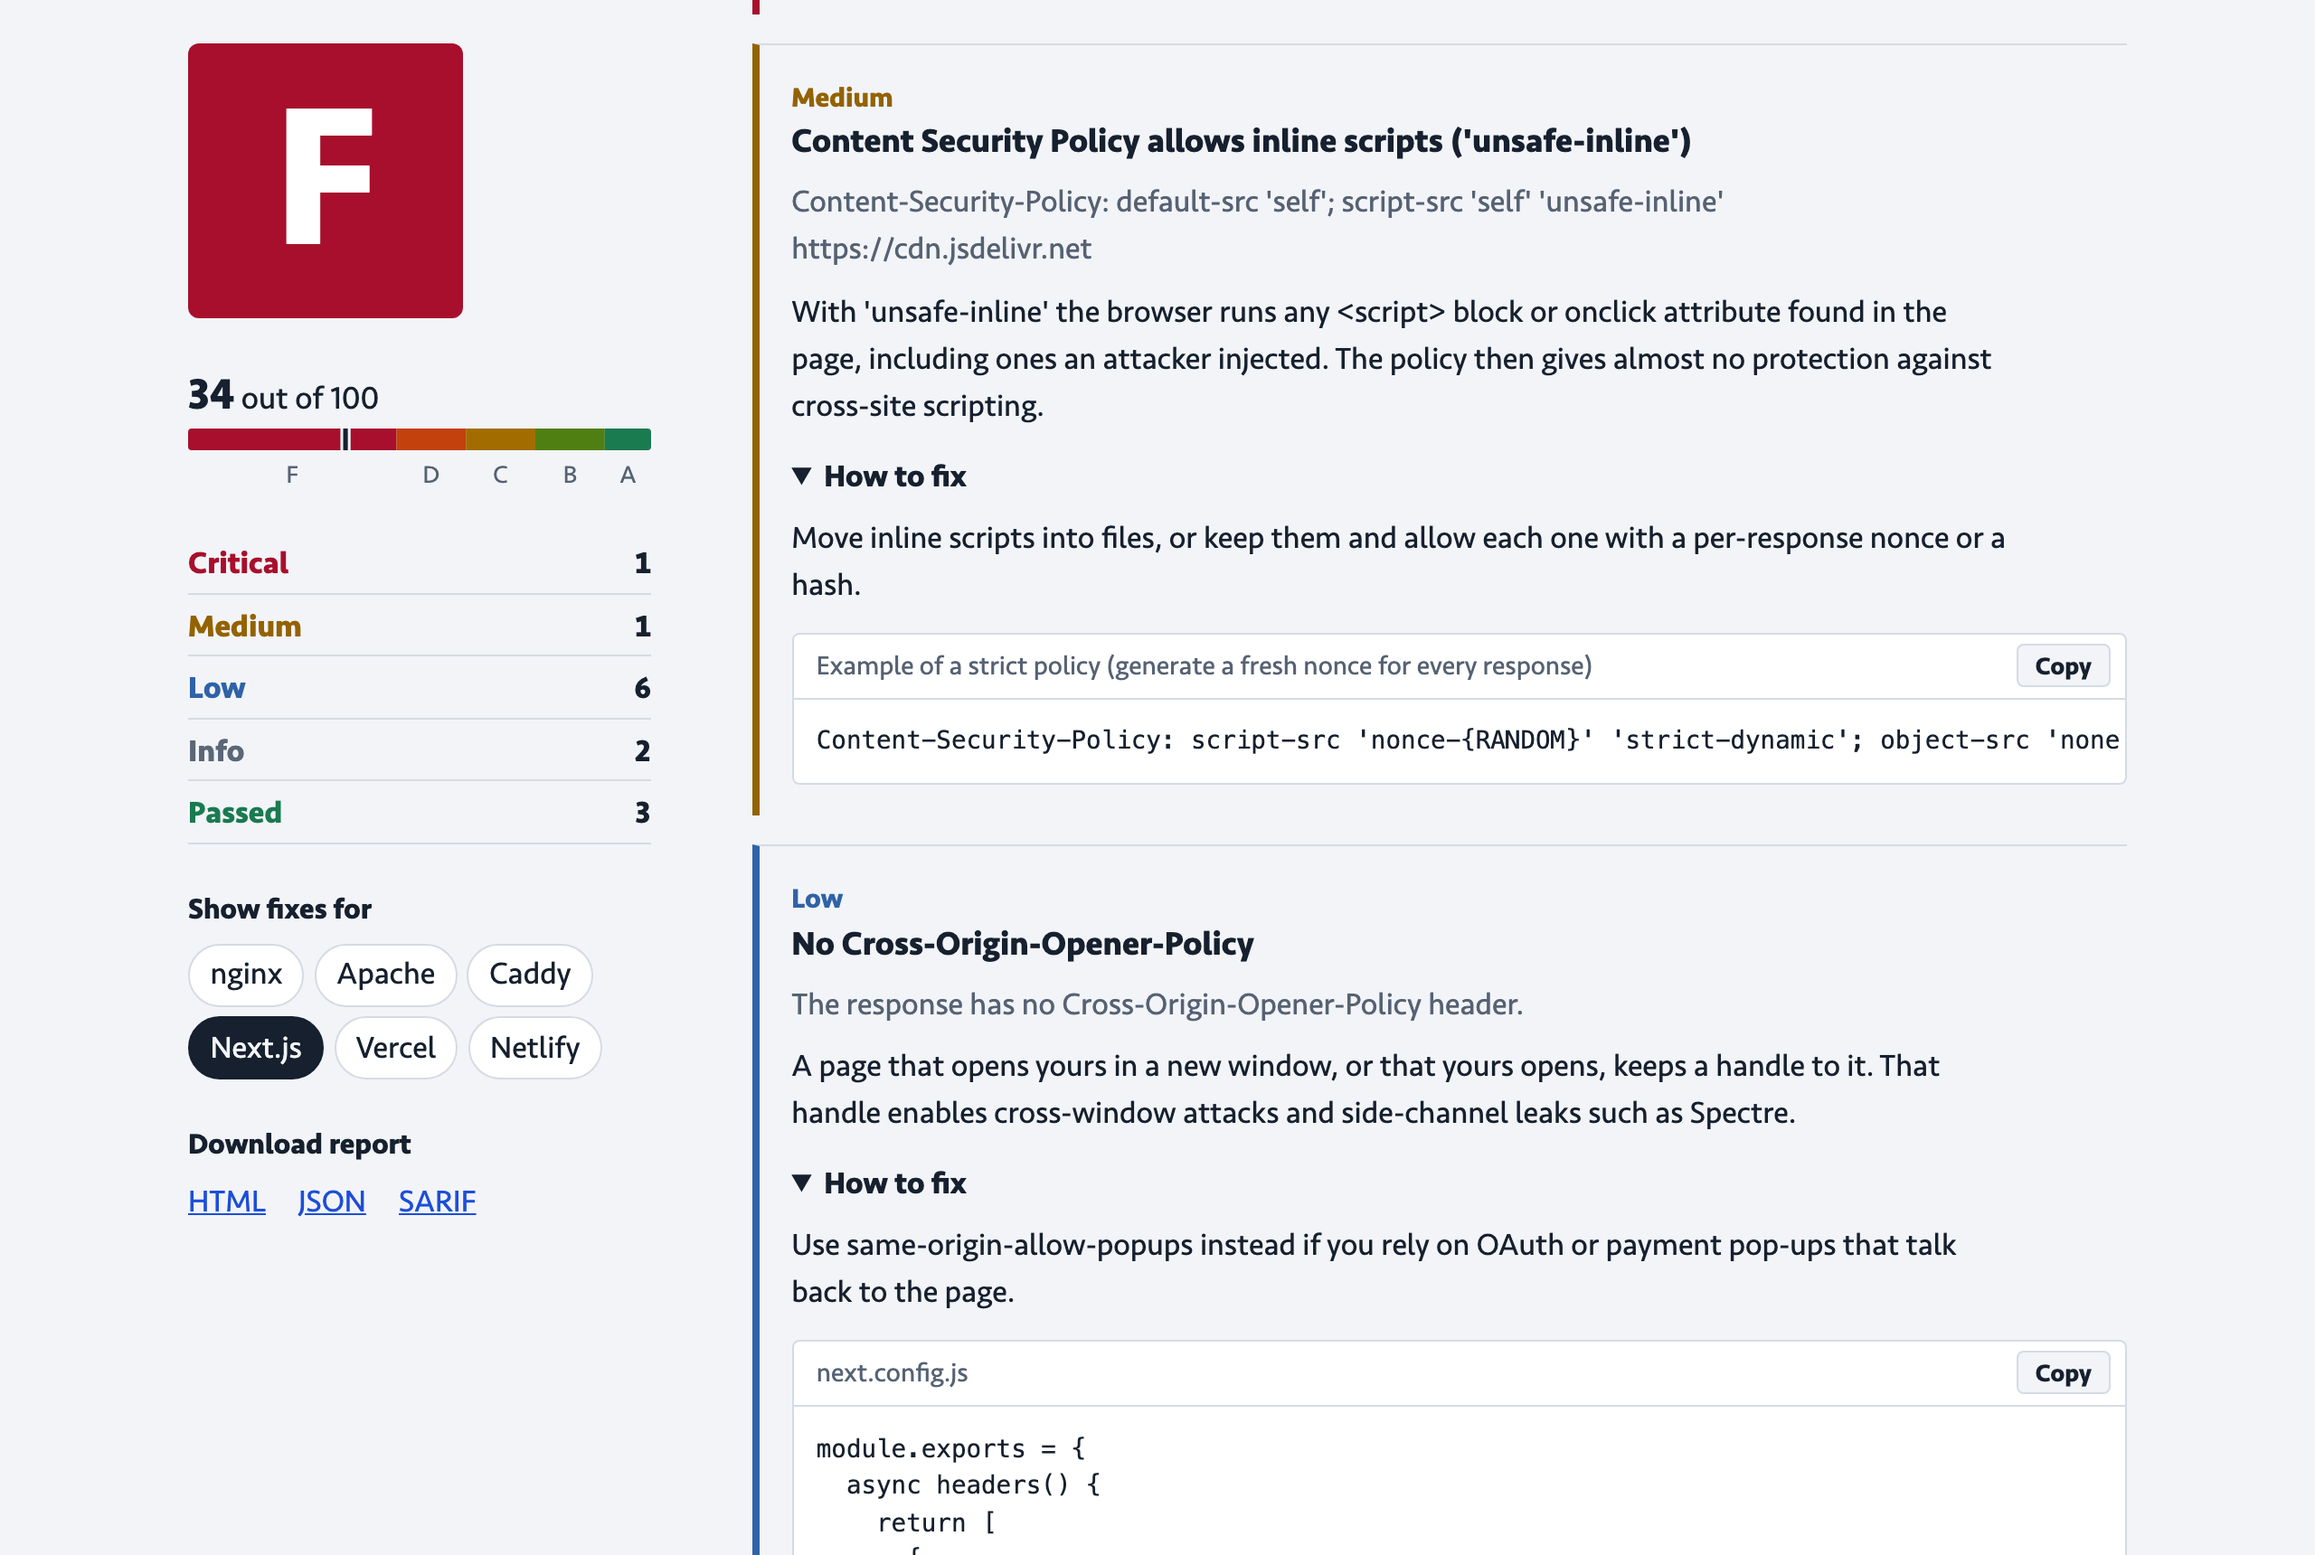
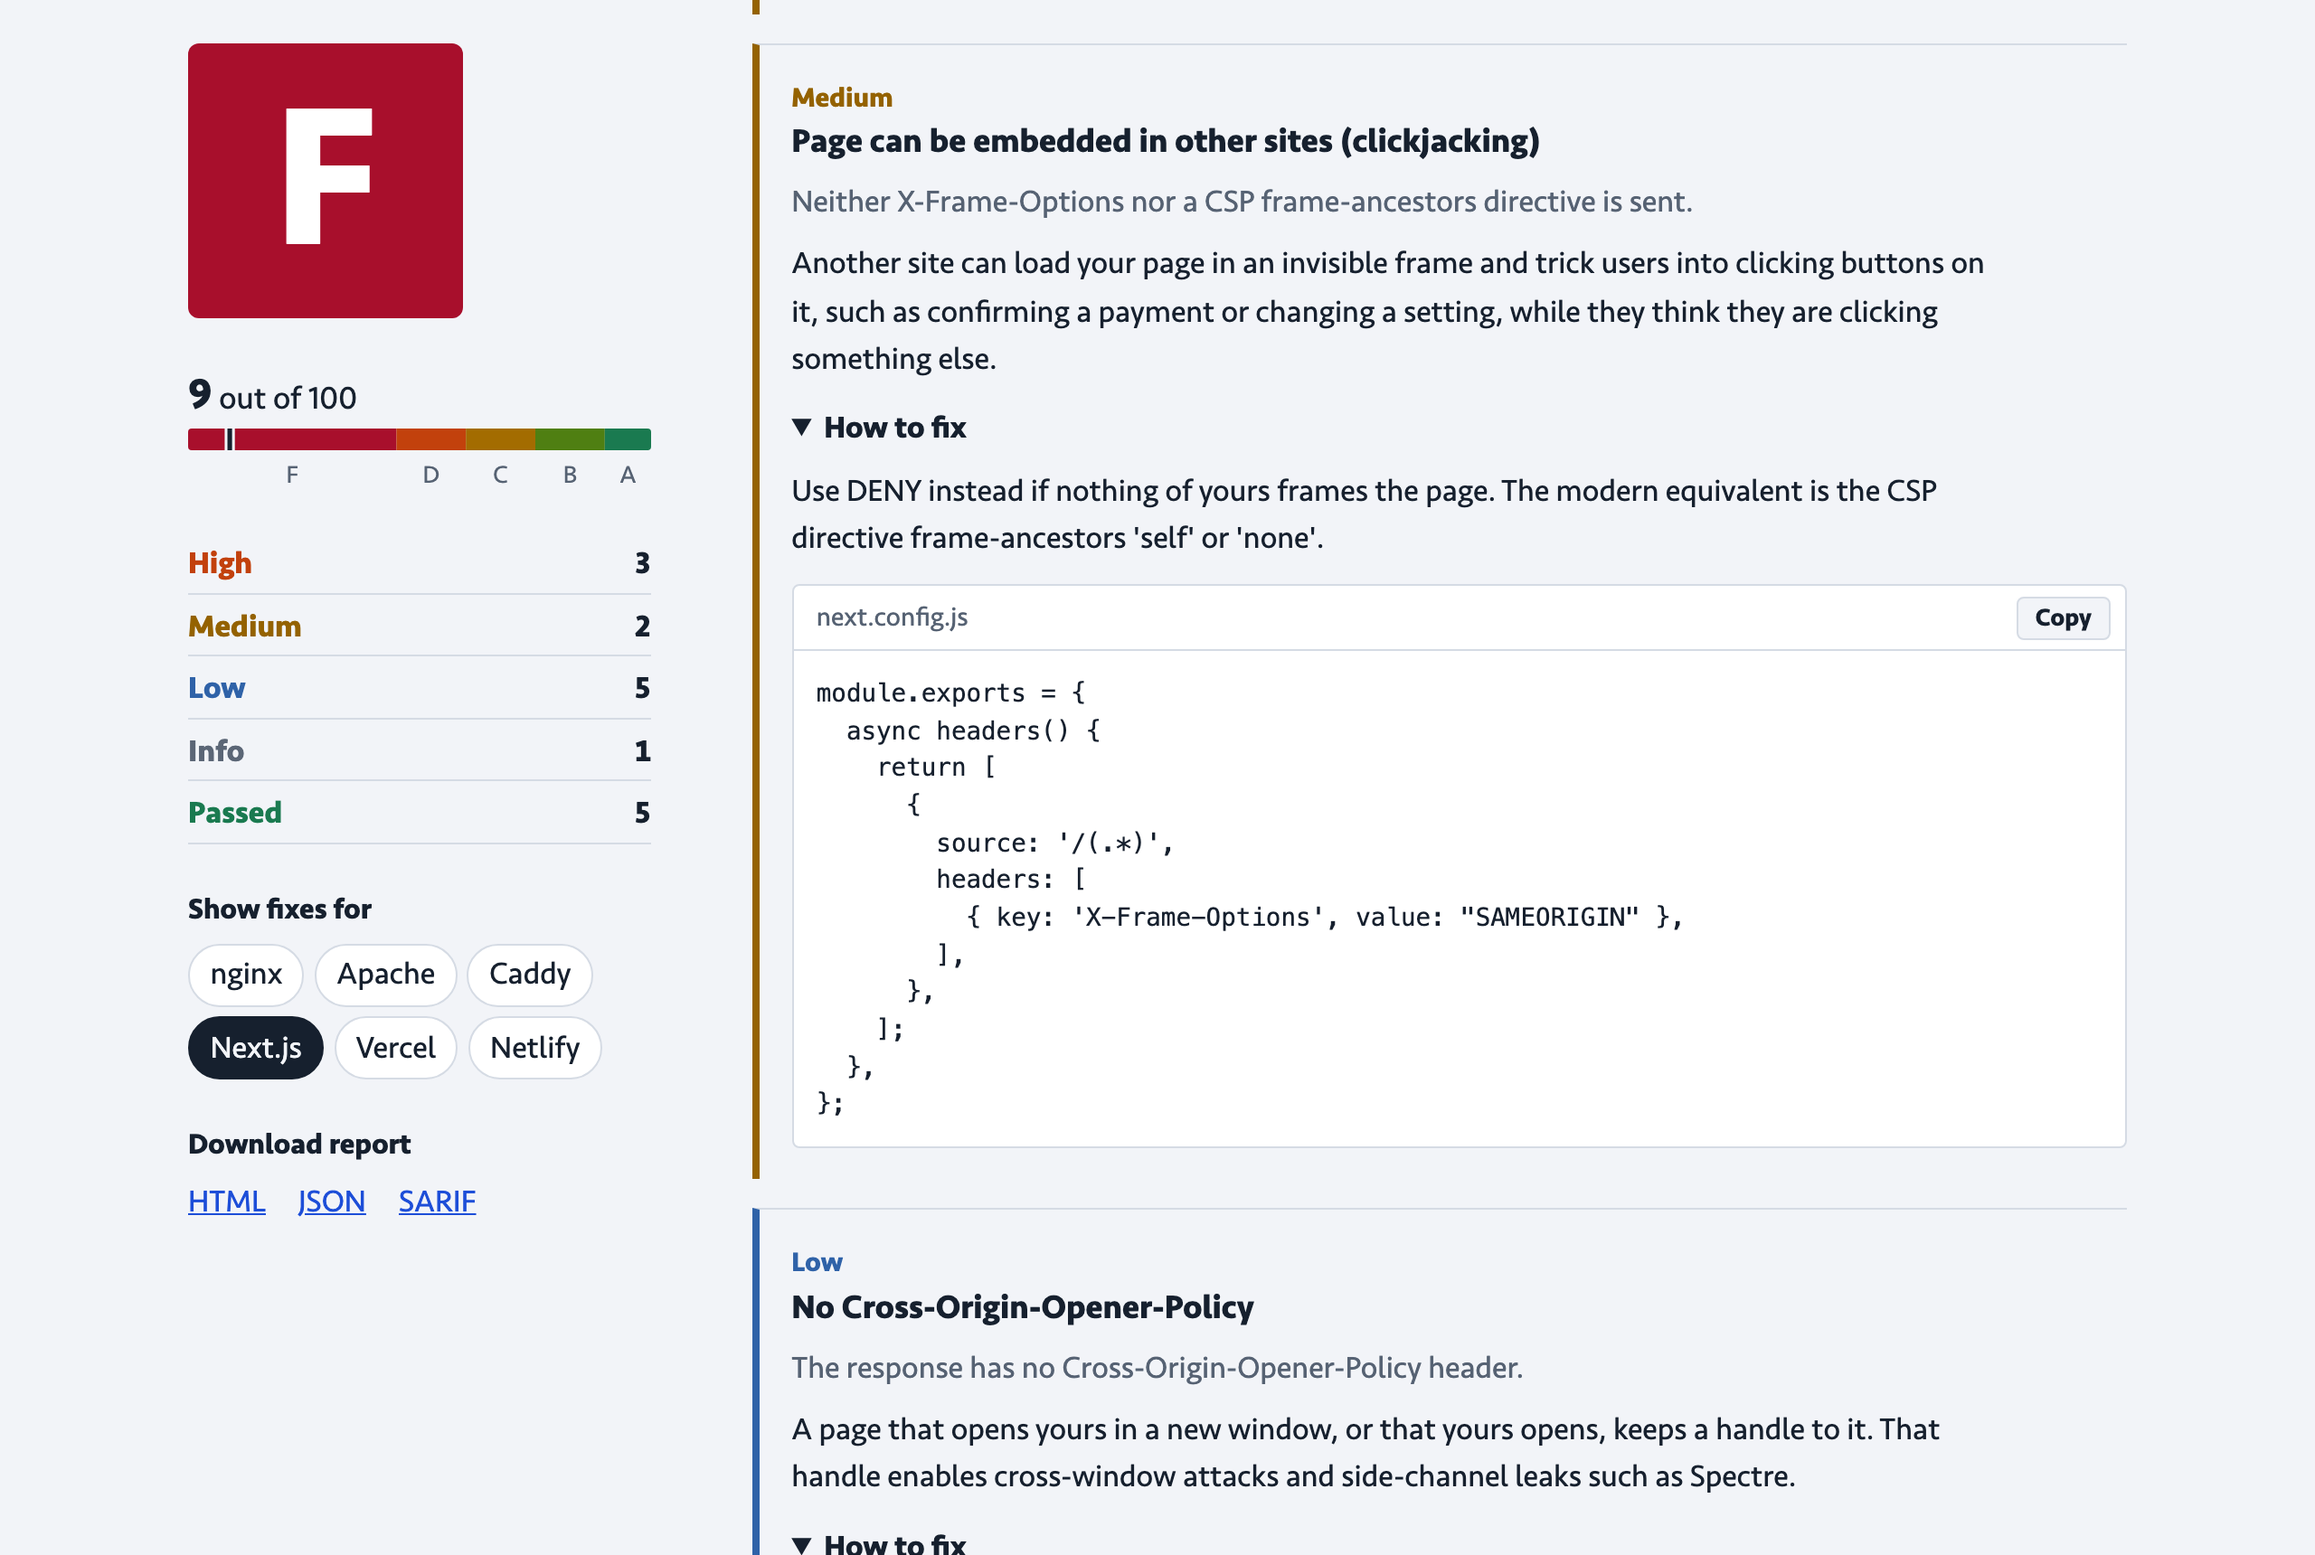
Release 0.1.1: release workflow, README and changelog, new screenshots
Adds a workflow that builds archives for Linux, macOS and Windows when a
version tag is pushed. The README gains the binary install, the SARIF upload
workflow and an accurate account of which fix snippets are tested. The
screenshots are retaken from a real scan of example.com, since a loopback
fixture no longer shows the plain-HTTP finding they showed.

diff --git a/internal/scan/scan.go b/internal/scan/scan.go
@@ -14,7 +14,7 @@ import (
 	"time"
 )
 
-const Version = "0.1.0"
+const Version = "0.1.1"
 
 type Severity string
 

diff --git a/README.md b/README.md
@@ -6,11 +6,21 @@ It exists because most scanners tell you a header is missing and stop there. shi
 
 > **Scan only sites you own or are authorised to test.**
 
-![The shieldcheck web UI showing an F grade, a severity breakdown, a platform switch and the first finding with its nginx fix](docs/screenshots/report.png)
+![The shieldcheck web UI after scanning example.com: an F grade, a severity breakdown, a platform switch and the first finding with its nginx fix](docs/screenshots/report.png)
 
 ## Quickstart
 
-You need Go 1.25 or newer.
+Download the archive for your system from the [latest release](https://github.com/Habibeyilmazz/shieldcheck/releases/latest) (Linux, macOS and Windows, amd64 and arm64), unpack it and run the binary inside:
+
+```sh
+tar -xzf shieldcheck_*_linux_amd64.tar.gz
+cd shieldcheck_*_linux_amd64
+./shieldcheck scan https://your-site.example
+```
+
+`checksums.txt` on the release page has the SHA-256 of every archive. The binaries are not signed: if macOS refuses to open one downloaded with a browser, run `xattr -d com.apple.quarantine shieldcheck` once.
+
+With Go 1.25 or newer you can install it instead:
 
 ```sh
 go install github.com/Habibeyilmazz/shieldcheck@latest
@@ -25,6 +35,8 @@ cd shieldcheck
 go build -o shieldcheck .
 ./shieldcheck scan https://your-site.example --fix nginx
 ```
+
+`go install` puts the binary in `$(go env GOPATH)/bin`; add that directory to your `PATH` if `shieldcheck` is not found. The examples below call it `shieldcheck`: write `./shieldcheck` when you run it from the folder it is in.
 
 The start of a real scan of `https://example.com`:
 
@@ -110,7 +122,7 @@ shieldcheck serve
 
 The UI runs the same scan and renders the same report, with download links for the HTML, JSON and SARIF versions. It follows your system's light or dark setting.
 
-![Findings in the web UI with the Next.js fixes selected](docs/screenshots/findings.png)
+![Findings for example.com in the web UI with the Next.js fixes selected](docs/screenshots/findings.png)
 
 ### GitHub Action
 
@@ -119,13 +131,34 @@ jobs:
   security:
     runs-on: ubuntu-latest
     steps:
-      - uses: Habibeyilmazz/shieldcheck@v0.1.0
+      - uses: Habibeyilmazz/shieldcheck@v0.1.1
         with:
           url: https://your-site.example
           min-grade: B
 ```
 
 Inputs: `url` (required), `min-grade`, `format`, `output`, `probe`, `allow-private`. The action is composite: it sets up Go, builds shieldcheck from the action's own source and runs one scan, so there is no binary download to trust. To scan a server started earlier in the same job, set `allow-private: "true"`; it is graded without the HTTPS checks (see [Grading](#grading)).
+
+To get the findings as alerts in the repository's Security tab, write SARIF and upload it to GitHub code scanning:
+
+```yaml
+jobs:
+  security:
+    runs-on: ubuntu-latest
+    permissions:
+      contents: read
+      security-events: write
+    steps:
+      - uses: actions/checkout@v5
+      - uses: Habibeyilmazz/shieldcheck@v0.1.1
+        with:
+          url: https://your-site.example
+          format: sarif
+          output: shieldcheck.sarif
+      - uses: github/codeql-action/upload-sarif@v4
+        with:
+          sarif_file: shieldcheck.sarif
+```
 
 ## Grading
 
@@ -171,12 +204,12 @@ Nothing is fuzzed, guessed or brute-forced, and no request carries a payload. Re
 - Mixed content is found by pattern-matching the HTML, not by parsing it.
 - The certificate chain is verified against the root store of the machine running the scan, without fetching missing intermediates. A server that omits its intermediate certificate is reported as untrusted, which is how most non-browser clients see it.
 - TLS checks cover protocol versions, not individual cipher suites.
-- The fix snippets were written from each platform's documentation. The header snippets for `vercel.json`, `netlify.toml` and `next.config.js` were syntax-checked; none were run against a live nginx, Apache, Caddy, Vercel or Netlify install.
+- How far the fix snippets are tested differs. CI pastes the header, exposed-dotfile and version-disclosure snippets into real nginx, Apache and Caddy (the Ubuntu packages) and requires the rescan to be an A. The TLS, HTTPS-redirect and cookie snippets, and everything for Next.js, Vercel and Netlify, were written from each platform's documentation and not run live; the header snippets for `next.config.js`, `vercel.json` and `netlify.toml` are only syntax-checked.
 - SPF and DMARC are looked up on the hostname and then each parent domain down to two labels, without a public-suffix list. An SPF record found only on a parent domain is reported with a note, since SPF is not inherited. DKIM is not checked because it needs a selector name.
 
 ## Roadmap
 
-- Release binaries and a container image, so Go is not required
+- A container image
 - Subresource Integrity check for third-party scripts and styles
 - Analyse every Content-Security-Policy header, not just the first
 - Job summary and grade outputs for the GitHub Action
@@ -190,6 +223,8 @@ go test ./...        # unit and end-to-end tests against local httptest fixtures
 go vet ./...
 gofmt -l .
 ```
+
+CI also runs the composite action against a fixture site and applies the generated fixes to real nginx, Apache and Caddy (`.github/scripts/live-fixes.sh`; it rewrites system config, so it is for CI runners only). Pushing a `v*` tag that matches `Version` in `internal/scan/scan.go` builds the release archives.
 
 The code is three small packages: `internal/scan` (the checks, the SSRF guard and the fix snippets), `internal/report` (terminal, JSON, SARIF and the HTML template) and the root package (CLI and web UI). There are no third-party dependencies. See [CHANGELOG.md](CHANGELOG.md) for what changed.
 

diff --git a/CHANGELOG.md b/CHANGELOG.md
@@ -4,6 +4,58 @@ All notable changes to this project are documented here. The format follows
 [Keep a Changelog](https://keepachangelog.com/en/1.1.0/) and the project uses
 [Semantic Versioning](https://semver.org/).
 
+## [0.1.1] - 2026-11-22
+
+Fixes from an independent first-run review: a fresh clone, the README followed
+literally, and every reported gap checked by running it.
+
+### Fixed
+
+- SARIF reports were rejected by GitHub code scanning ("unrecognized SARIF
+  location URI scheme") because each result's location was the scanned URL.
+  The location is now the site as a relative path (`host/path`) and the URL is
+  in the result message. Confirmed by uploading a report: accepted, with the
+  expected alert severities.
+- A site whose plain-HTTP address redirects to another `http://` address
+  before reaching HTTPS was reported as "neither serves the site nor redirects
+  to HTTPS", and one that ended on a plain-HTTP page was only an info finding.
+  The port 80 check now follows redirects while they stay on `http://`.
+- Plain HTTP on `localhost`, `*.localhost` or a loopback IP is no longer a
+  critical finding, so a dev server is graded on its headers and a
+  `--min-grade` gate on a server started inside a CI job can pass. Any other
+  plain-HTTP host is still critical.
+- `shieldcheck scan --help` and `serve --help` exit 0 instead of 2.
+- A target without a scheme but with a URL in its query
+  (`site.example/?next=http://...`) was rejected as an unsupported scheme.
+
+### Added
+
+- Release archives for Linux, macOS and Windows (amd64 and arm64) with
+  checksums, built by `.github/workflows/release.yml` when a `v*` tag is pushed.
+- CI job `live-fixes`: pastes the generated header, exposed-dotfile and
+  version-disclosure snippets into real nginx, Apache and Caddy and requires
+  the rescan to go from F to A.
+- Tests: a redirect to a private address is blocked after the first hop; SARIF
+  locations are relative paths.
+
+### Changed
+
+- README: binary install, SARIF upload workflow, what is and is not tested
+  about the fix snippets. Screenshots now show a real scan of example.com.
+
+### Notes for whoever works on this next
+
+- To release: bump `Version` in `internal/scan/scan.go`, add a changelog
+  section with the same number, push, then push the tag. The release workflow
+  refuses a tag that does not match and takes its notes from this file.
+- Tags are never moved. The README's action example pins the latest tag, so
+  update it when releasing.
+- Every httptest fixture is on loopback, so `https.missing` (critical) cannot
+  be reached end to end any more; `TestPlainHTTPIsCriticalExceptOnLoopback`
+  covers it by calling `checkTransport` directly.
+- Still not verified: the TLS, HTTPS-redirect and cookie snippets on a live
+  server, and anything on Next.js, Vercel or Netlify.
+
 ## [0.1.0] - 2026-11-21
 
 First release.
